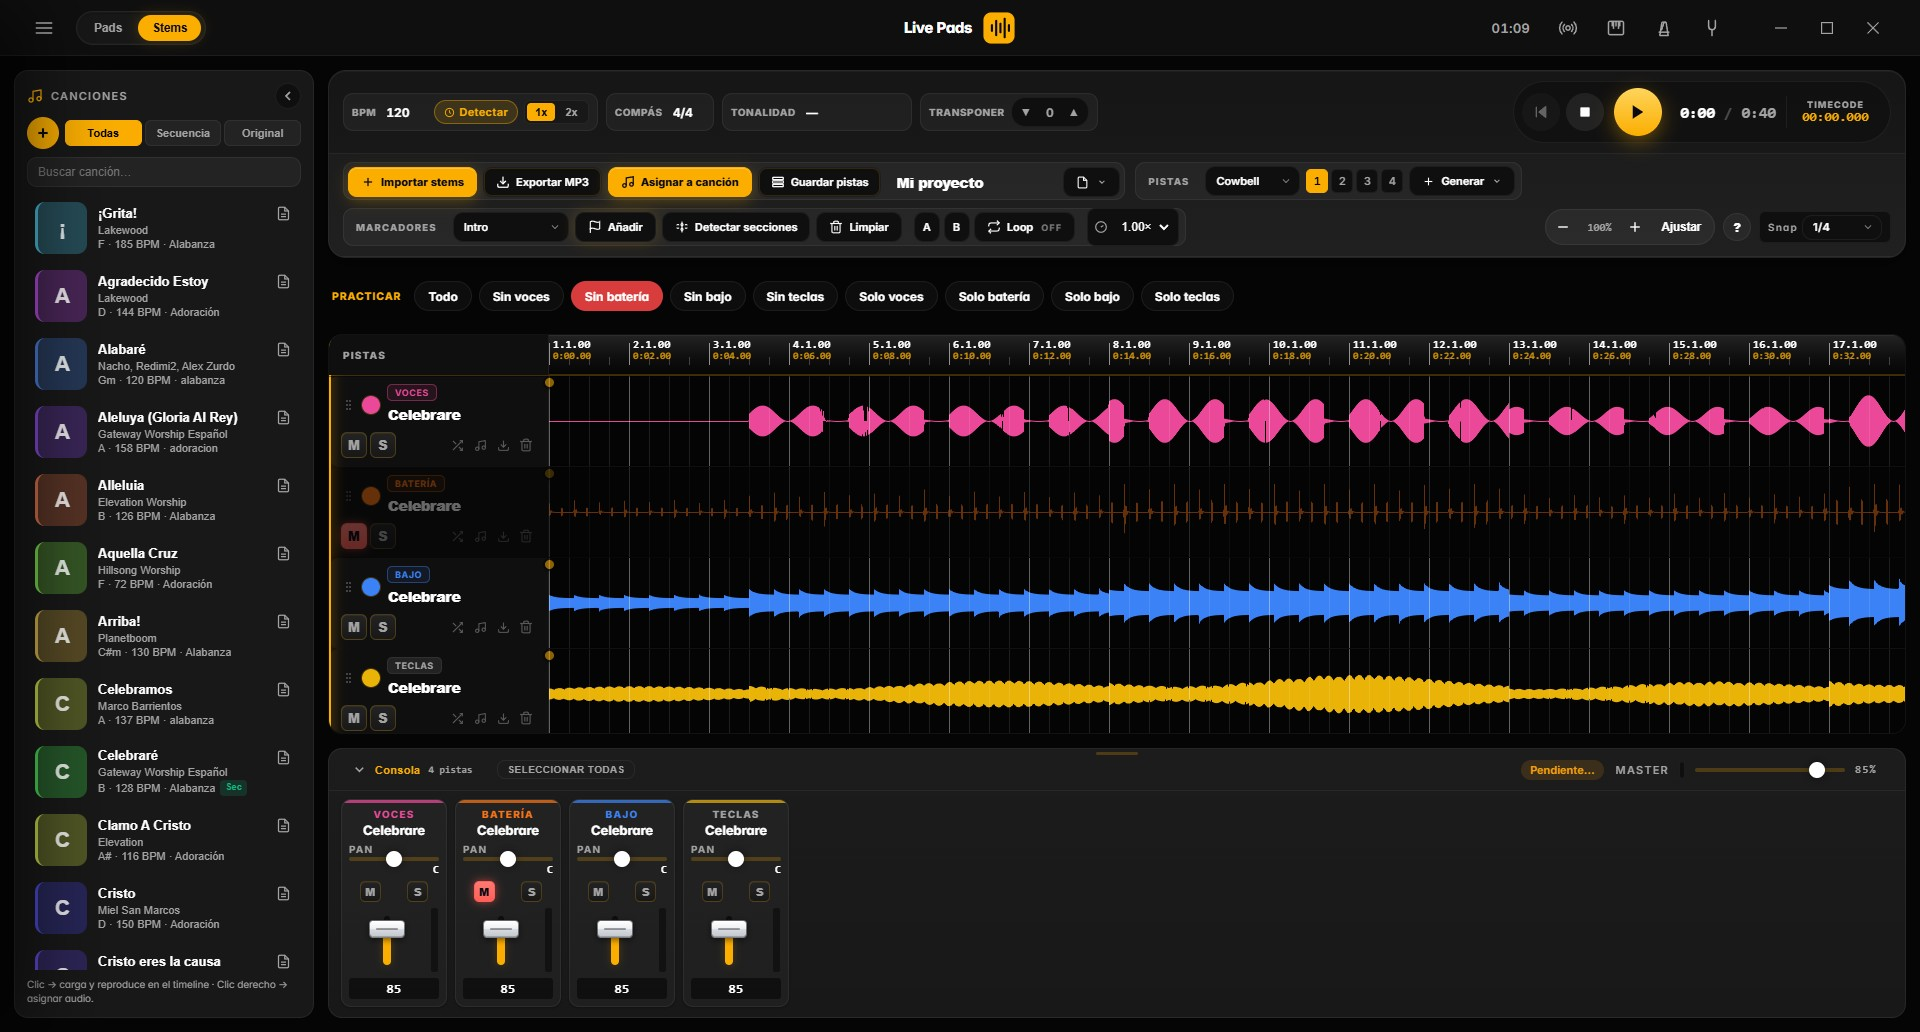
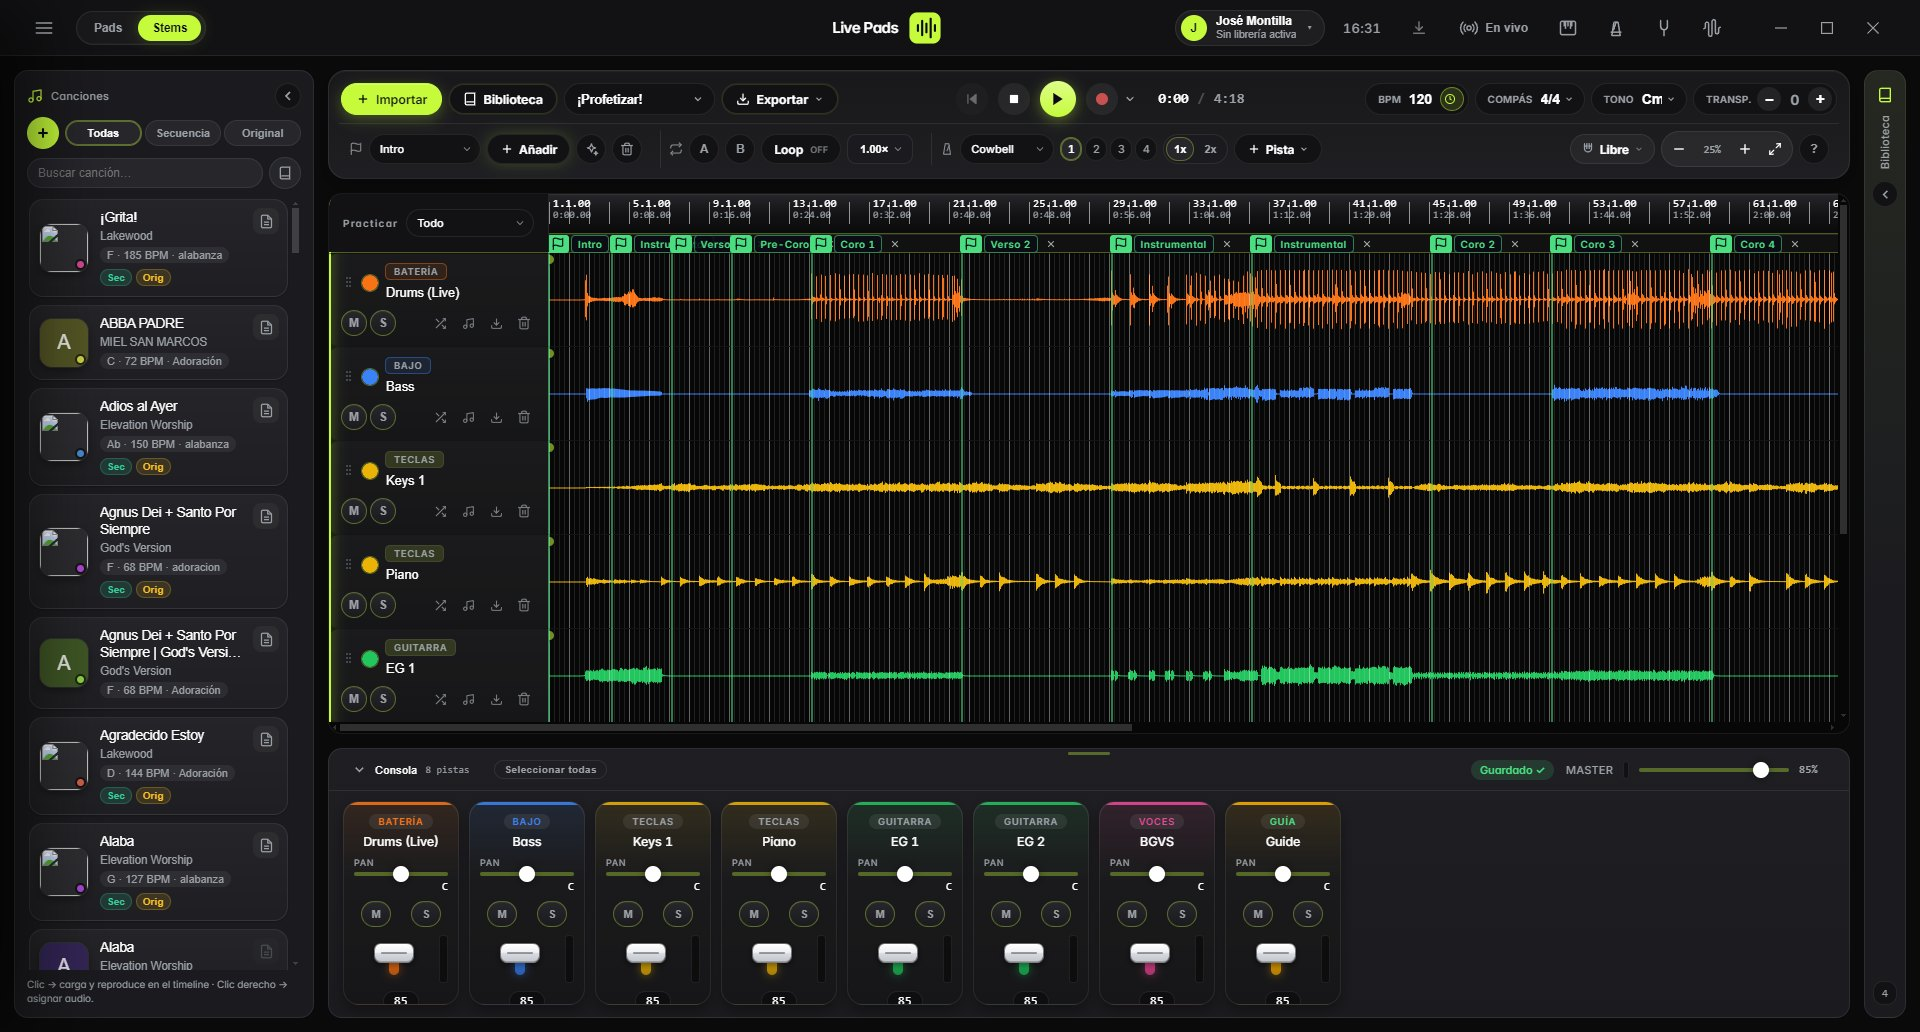
Stems: play destacado, regla legible con poco zoom, nombres de multitrack; landing con capturas nuevas de Pads y Stems

diff --git a/src/js/stems/workspace.js b/src/js/stems/workspace.js
@@ -1839,7 +1839,7 @@ async function importFiles(fileList) {
         console.error('Failed to read', file.name, err);
         const raw = String(err && err.message || err);
         toast(/could not be read|NotReadable|permission|reference to a file/i.test(raw)
-          ? `No se pudo leer "${file.name}": el archivo dejó de ser accesible durante la importación (pudo moverse, renombrarse o bloquearse). Volvé a arrastrarlo e intentá de nuevo.`
+          ? `No se pudo leer "${file.name}": el archivo dejó de ser accesible durante la importación (pudo moverse, renombrarse o bloquearse). Vuelve a arrastrarlo e inténtalo de nuevo.`
           : `No se pudo leer "${file.name}": ${raw}`);
         return null;
       }
@@ -5141,14 +5141,23 @@ function drawRuler() {
   const beatSec = 60 / bpmFloat;
   const beatsTotal = Math.ceil(dur / beatSec);
 
+  // Con poco zoom los números no caben: se rotula cada 1, 2, 4, 8… compases
+  // (al menos ~64 px entre rótulos) y se omiten las marcas de tiempo muy juntas.
+  const barPx = barSec * PX_PER_SEC, beatPx = beatSec * PX_PER_SEC;
+  let labelEvery = 1;
+  while (barPx * labelEvery < 64 && labelEvery < 256) labelEvery *= 2;
+  const showBeats = beatPx >= 6;
   let html = '';
   for (let beat = 0; beat <= beatsTotal; beat++) {
     const tSec = beat * beatSec;
     const x = tSec * PX_PER_SEC;
     if (x > w) break;
     const isBar = beat % beatsPerBar === 0;
+    if (!isBar && !showBeats) continue;
+    const barIdx = Math.floor(beat / beatsPerBar);
+    if (isBar && barPx < 4 && barIdx % labelEvery !== 0) continue;
     html += `<div class="stems-tick ${isBar ? 'stems-tick--bar' : ''}" style="left:${x}px"></div>`;
-    if (isBar) {
+    if (isBar && barIdx % labelEvery === 0) {
       const bar = beat / beatsPerBar + 1;
       html += `<div class="stems-tick-label" style="left:${x + 4}px">
         <span class="stems-tick-bar">${bar}.1.00</span>

diff --git a/src/js/stems/stemRole.js b/src/js/stems/stemRole.js
@@ -4,11 +4,11 @@
 // Módulo puro (sin DOM) para poder testearlo con node.
 
 const STEM_ROLE_PATTERNS = [
-  ['vocals', /\b(vocals?|voces|voz|voice|lead\s*vox|vox)\b/i],
+  ['vocals', /\b(vocals?|voces|voz|voice|lead\s*vox|vox|bgvs?|oohs?|aahs?|coros?|choir)\b/i],
   ['drums',  /\b(drums?|bater[ií]a|percusi[oó]n|percussion)\b/i],
   ['bass',   /\b(bass|bajo)\b/i],
   ['keys',   /\b(keys?|teclas?|teclado|keyboards?|piano|synths?|sintetizador|rhodes|organ|[oó]rgano)\b/i],
-  ['guitar', /\b(guitars?|guitarra|ac[uú]stica|acoustic|el[eé]ctrica|electric)\b/i],
+  ['guitar', /\b(guitars?|guitarra|ac[uú]stica|acoustic|el[eé]ctrica|electric|eg|ag)\b/i],
   ['other',  /\b(other|otros|instrumental|music|m[uú]sica|accompaniment)\b/i],
   ['click',  /\b(click|metr[oó]nomo|metronome)\b/i],
   ['guide',  /\b(guide|gu[ií]a|cues?)\b/i],
@@ -30,6 +30,10 @@ export function detectStemRole(fileName) {
     // Drop the token plus the separator glued to it ("Song - vocals" → "Song").
     let clean = base.replace(new RegExp(`\\s*[-–—:|(\\[]*\\s*${m[0]}\\s*[)\\]]*\\s*`, 'i'), ' ').replace(/\s{2,}/g, ' ').trim();
     clean = clean.replace(/^[-–—:|\s]+|[-–—:|\s]+$/g, '');
+    // Multitracks («Drums (Live)», «Keys 1», «EG 2»): si sin el rol solo queda un
+    // número o algo entre paréntesis, el nombre completo es más claro.
+    const rest = clean.replace(/\([^)]*\)|\[[^\]]*\]/g, '').replace(/[^\p{L}]/gu, '');
+    if (rest.length < 3 || /^(synth|sub|lead|pad|live|loop|main|alt)$/i.test(clean.trim())) clean = base;
     return { kind, name: clean || base };
   }
   return { kind: 'stem', name: base };

diff --git a/docs/index.html b/docs/index.html
@@ -101,7 +101,7 @@
     <div class="stage rv">
       <div class="win">
         <div class="win-bar"><span></span><span></span><span></span></div>
-        <img src="assets/hero.png" alt="LivePads en Windows: pads, metrónomo, teclas y mezclador en una sola pantalla" width="1920" height="1032">
+        <img src="assets/hero.png" alt="LivePads en Windows: drum pads, metrónomo y pads en tonalidad menor (Am) en una sola pantalla" width="1920" height="1032">
       </div>
       <div class="phone"><img src="assets/app-player.webp" alt="Reproductor de la app móvil con las secciones de la canción" width="600" height="1298"></div>
     </div>
@@ -185,7 +185,7 @@
     </div>
     <div class="shot rv" style="margin-top:56px">
       <div class="win"><div class="win-bar"><span></span><span></span><span></span></div>
-      <img src="assets/stems.jpg" alt="Editor de stems de LivePads con línea de tiempo multipista" width="1920" height="1032"></div>
+      <img src="assets/stems.jpg" alt="Stems de LivePads: multitrack de 8 pistas con secciones detectadas automáticamente y consola" width="1920" height="1032"></div>
     </div>
     <div class="bento" style="margin-top:14px">
       <div class="card c2 rv"><div class="ic"><svg class="ico"><use href="#i-layers"/></svg></div><h3>Pistas por canción<span class="tag">Nuevo</span></h3><p>Guarda <b>voz, batería, bajo, teclas, guitarra…</b> en cada canción y practica con «Sin batería», «Solo voces» o «Sin teclas» en un clic.</p></div>

diff --git a/src/css/modules/_stems-bar.css b/src/css/modules/_stems-bar.css
@@ -248,3 +248,15 @@
 #workspace-stems .sb-rec .stems-rec-menu svg { width: 12px; height: 12px; }
 #workspace-stems .sb-time { margin-left: 2px; }
 #workspace-stems .sb-time .stems-tb-time { font-size: 14px; }
+
+/* Play siempre destacado (la regla de fondo de los botones le quitaba el verde) */
+#workspace-stems .stems-tb-mid .stems-tb-btn--play {
+  background: linear-gradient(180deg, var(--accent2, var(--accent)), var(--accent)) !important;
+  color: var(--on-accent, #0a0a0a) !important;
+  box-shadow: 0 3px 14px color-mix(in srgb, var(--accent) 40%, transparent);
+}
+#workspace-stems .stems-tb-mid .stems-tb-btn--play:hover:not(:disabled) { filter: brightness(1.08); }
+#workspace-stems .stems-tb-mid .stems-tb-btn--play:disabled {
+  background: color-mix(in srgb, var(--accent) 35%, transparent) !important;
+  color: var(--on-accent, #0a0a0a) !important; box-shadow: none; opacity: .55;
+}

diff --git a/NOVEDADES.md b/NOVEDADES.md
@@ -1,1 +1,3 @@
-• Biblioteca más limpia: se quitaron «Repetir» y «Sumar a la pista de su instrumento» del pie. Las pistas de canción completa entran siempre una vez y cada una en su propia pista (Keys 1 y Keys 2 ya no se juntan).
+• Stems: el botón de reproducir vuelve a destacarse en verde (se veía apagado).
+• Stems: con poco zoom, la regla muestra un número cada 2, 4 u 8 compases en lugar de amontonarlos.
+• Al importar multitracks, las pistas conservan su nombre («Drums (Live)», «Keys 1», «EG 2») y se reconocen EG/AG como guitarra y BGVS/Oohs como voces.
